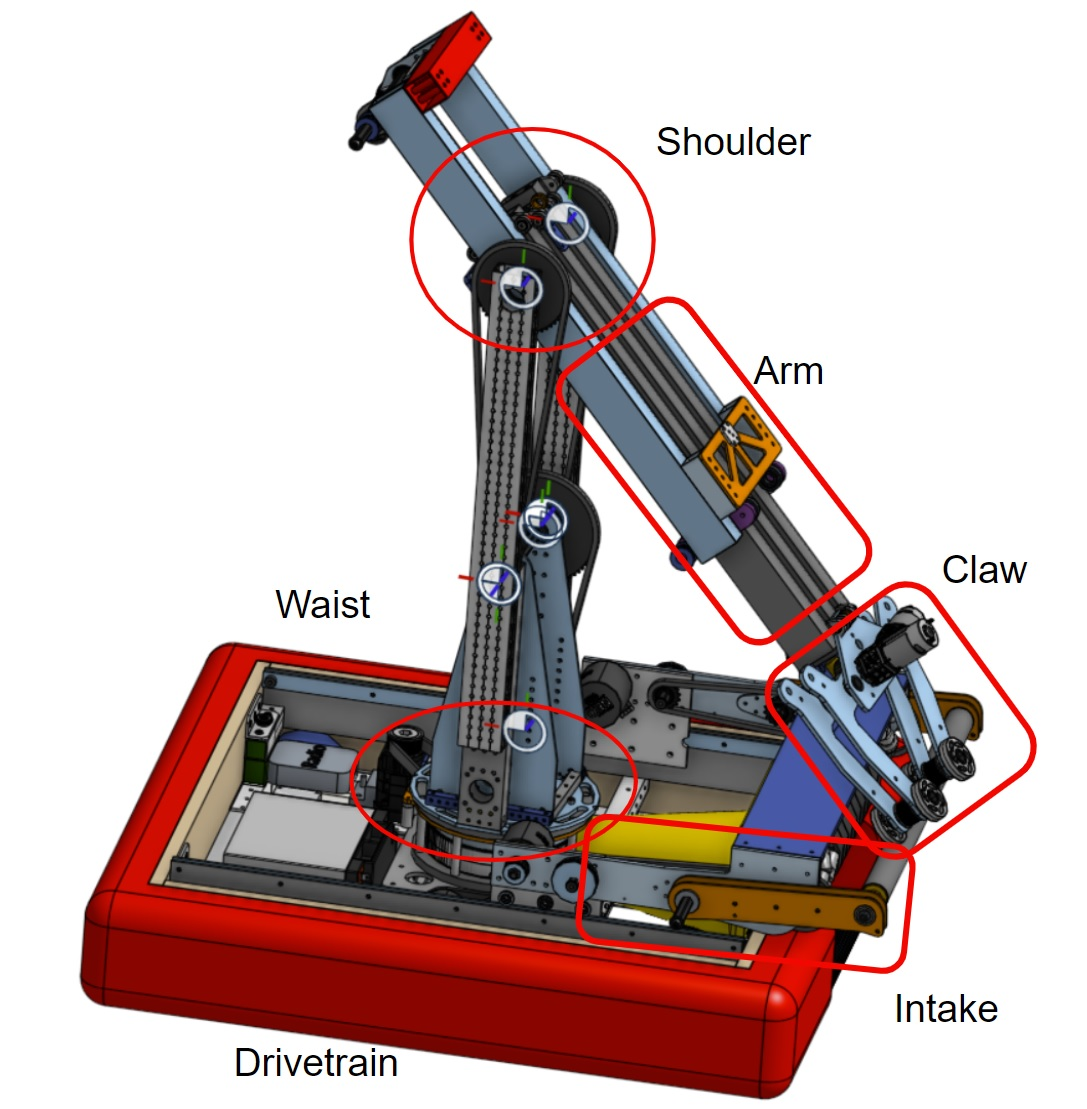
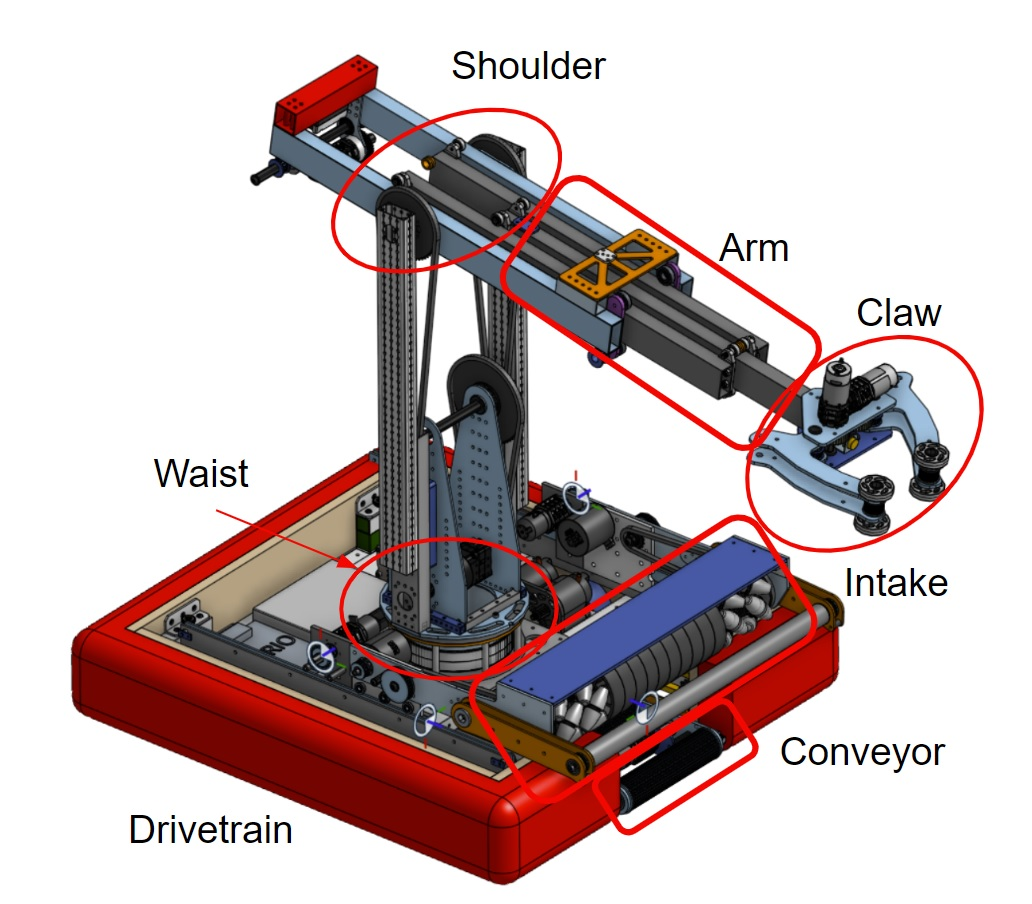
update notes on susbsystems / images

diff --git a/README.md b/README.md
@@ -58,7 +58,7 @@ We should set one up as a follower to the other so that the two motors stay sync
    * 2x TalonFX motor controllers for moving the intake in & out
 
 
-### Intake Conveyor (lower) (Not pictured)
+### Intake Conveyor (lower)
 
 Mounted at the front of the chassis, along the ground. Aids in bringing the game pieces into the chassis.
 
@@ -87,7 +87,7 @@ Game piece manipulator mounted on the arm
 
 * Actuators:
 
-  * 2x SparkMAX motor controllers
+  * 1x TalonSRX motor controller
   * 1x Solenoid (open/close)
 
 * Sensors: 
@@ -122,7 +122,6 @@ Container for interacting with camera based sensor(s)
 
   * Sensors:
     * 1x photonvision camera
-    * 🤷♀ 1x Limelight?
 
 ## Getting Started
 
